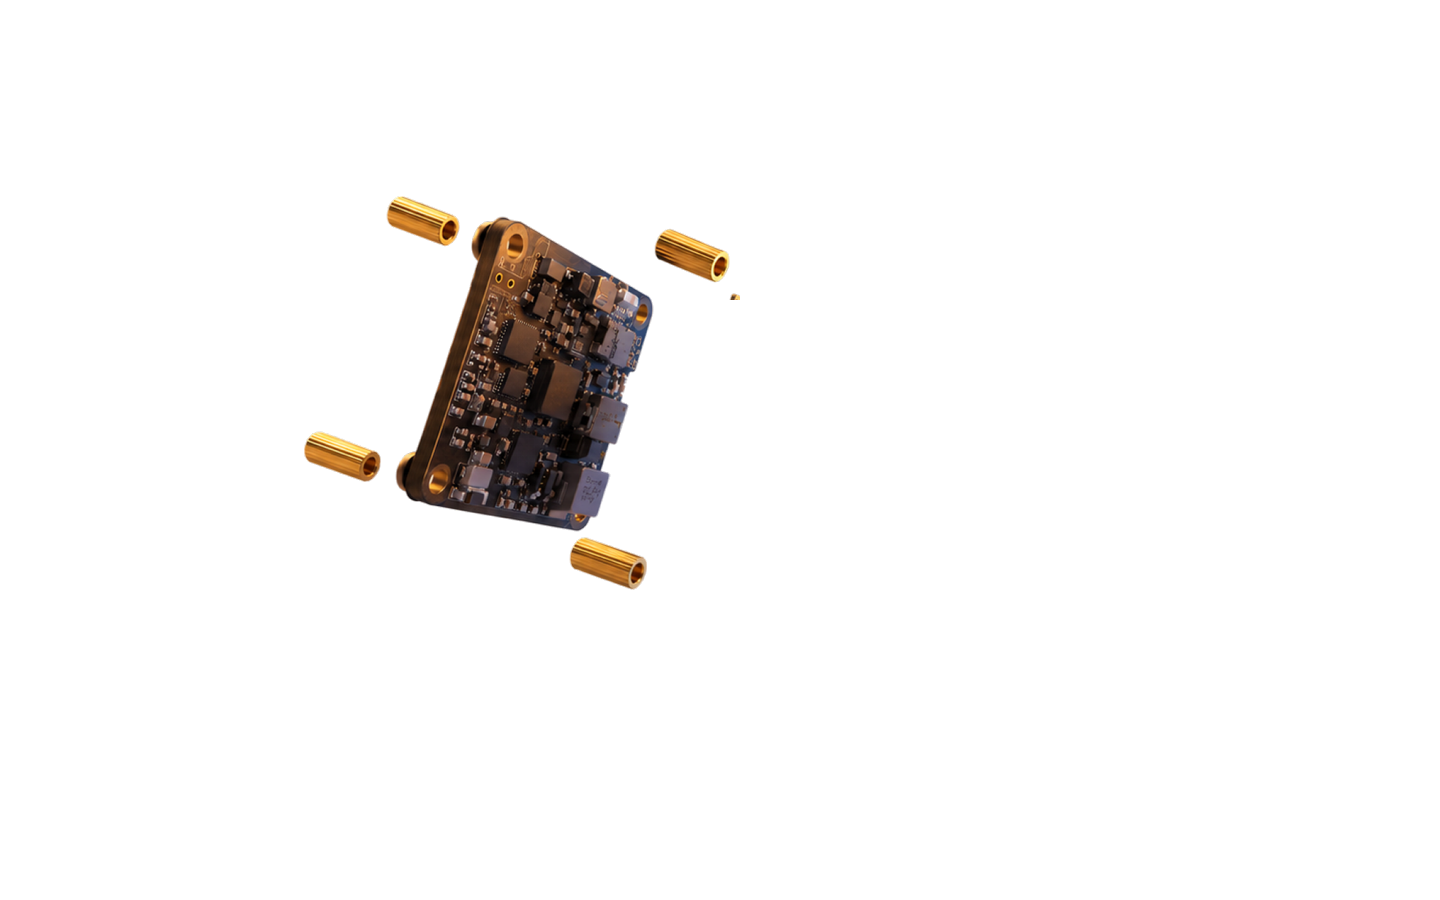
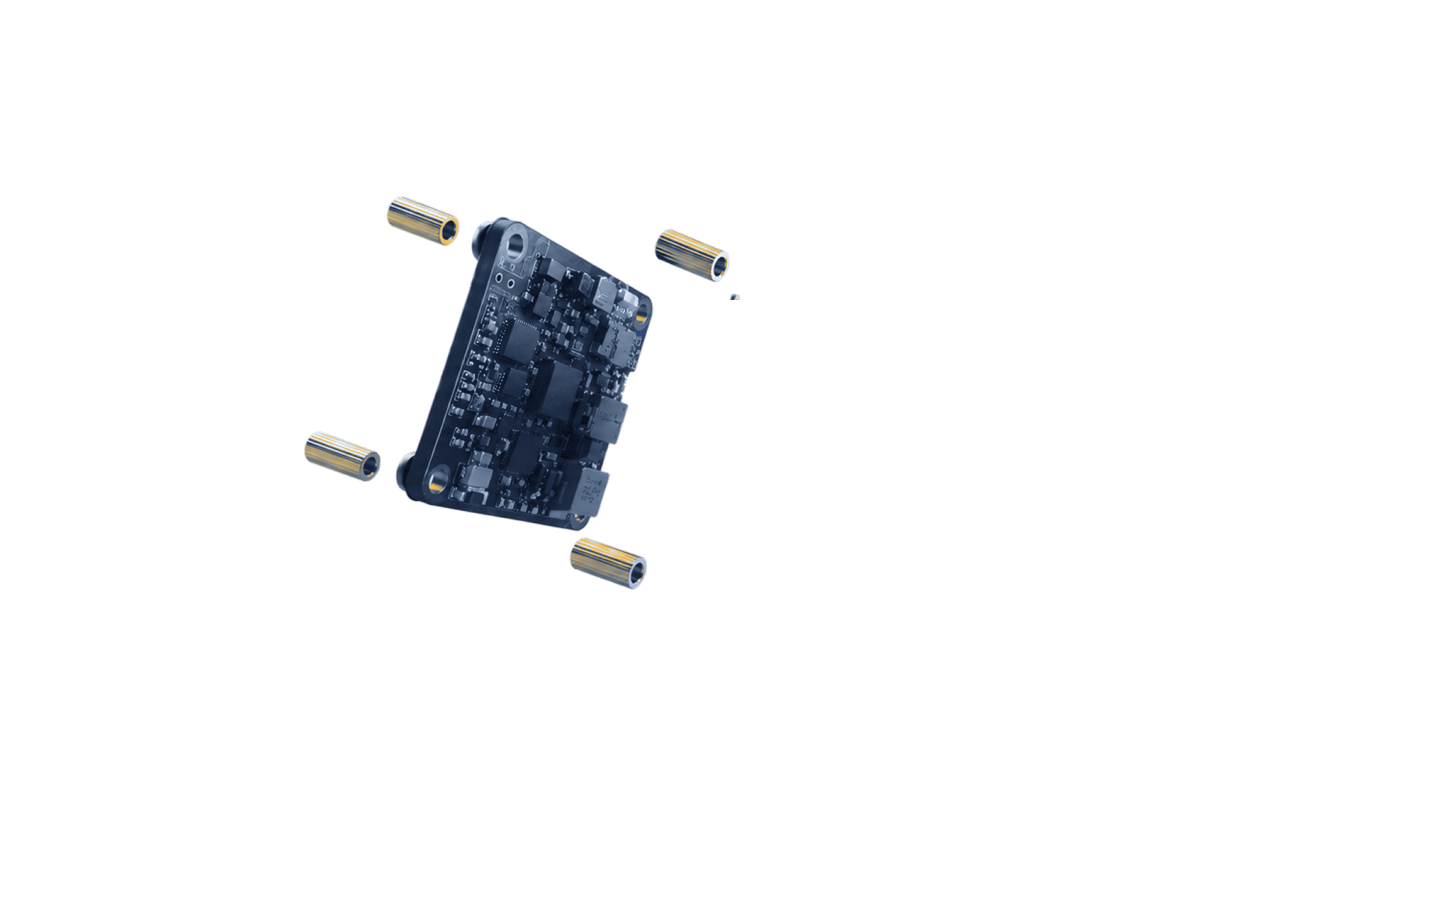
Services v3: cool blue grade on the lifecycle component, 10° turn per list step

Changed region(s): [[0.1875, 0.2178, 0.5312, 0.6533]]

diff --git a/services/procurement-v3/index.html b/services/procurement-v3/index.html
@@ -16,7 +16,7 @@
   <link rel="stylesheet" href="../../vendor/lenis.css" />
   <link rel="stylesheet" href="../../css/style.css?v=53" />
   <link rel="stylesheet" href="../../css/services.css?v=9" />
-  <link rel="stylesheet" href="../../css/services-v3.css?v=3" />
+  <link rel="stylesheet" href="../../css/services-v3.css?v=4" />
 </head>
 <body class="page-svc page-sv3">
 
@@ -189,10 +189,10 @@
       <div class="sv-comp" id="svComp" aria-hidden="true">
         <div class="sv-comp__world" id="svCompWorld">
           <span class="sv-comp__shadow" id="svCompShadow"></span>
-          <img class="sv-comp__img" id="svCompAsm" src="../../assets/img/svc/comp-assembled.png" alt="" />
-          <img class="sv-comp__img sv-comp__layer" data-cx="528" data-cy="384" data-cz="-90" src="../../assets/img/svc/comp-layer-l.png" alt="" />
-          <img class="sv-comp__img sv-comp__layer" data-cx="709" data-cy="423" data-cz="0" src="../../assets/img/svc/comp-layer-m.png" alt="" />
-          <img class="sv-comp__img sv-comp__layer" data-cx="897" data-cy="481" data-cz="110" src="../../assets/img/svc/comp-layer-r.png" alt="" />
+          <img class="sv-comp__img" id="svCompAsm" src="../../assets/img/svc/comp-assembled.png?v=2" alt="" />
+          <img class="sv-comp__img sv-comp__layer" data-cx="528" data-cy="384" data-cz="-90" src="../../assets/img/svc/comp-layer-l.png?v=2" alt="" />
+          <img class="sv-comp__img sv-comp__layer" data-cx="709" data-cy="423" data-cz="0" src="../../assets/img/svc/comp-layer-m.png?v=2" alt="" />
+          <img class="sv-comp__img sv-comp__layer" data-cx="897" data-cy="481" data-cz="110" src="../../assets/img/svc/comp-layer-r.png?v=2" alt="" />
         </div>
       </div>
       <span class="sv-cycle__shade" aria-hidden="true"></span>
@@ -396,7 +396,7 @@
   <script src="../../vendor/gsap.min.js"></script>
   <script src="../../vendor/ScrollTrigger.min.js"></script>
   <script src="../../vendor/lenis.min.js"></script>
-  <script src="../../js/services-v3.js?v=3"></script>
+  <script src="../../js/services-v3.js?v=4"></script>
   <script src="../../js/nav-menu.js?v=6"></script>
 </body>
 </html>

diff --git a/js/services-v3.js b/js/services-v3.js
@@ -228,14 +228,9 @@ function buildComponent() {
   const layers = $$('.sv-comp__layer', world).map((el) => ({ el, cx: +el.dataset.cx, cy: +el.dataset.cy, cz: +el.dataset.cz }));
   const E = (x) => x * x * (3 - 2 * x);
 
-  // one pose per stage: the assembly is turned to a new angle each time
-  const POSES = [
-    { rx: 4, ry: -10, rz: 6 },
-    { rx: -2, ry: 12, rz: -5 },
-    { rx: 8, ry: -16, rz: 9 },
-    { rx: 0, ry: 16, rz: -8 },
-    { rx: 5, ry: -4, rz: 3 },
-  ];
+  // one pose per stage: each step down the list turns the assembly 10° more
+  const STEP = 10;
+  const POSES = [0, 1, 2, 3, 4].map((i) => ({ rx: 4, ry: (i - 2) * STEP, rz: 5 }));
   // cin: arrival, sw: assembled shot → layers, ex: layers open out
   const s = { cin: 0, sw: 0, ex: 0, rx: POSES[0].rx, ry: POSES[0].ry, rz: POSES[0].rz, px: 0, py: 0 };
 
